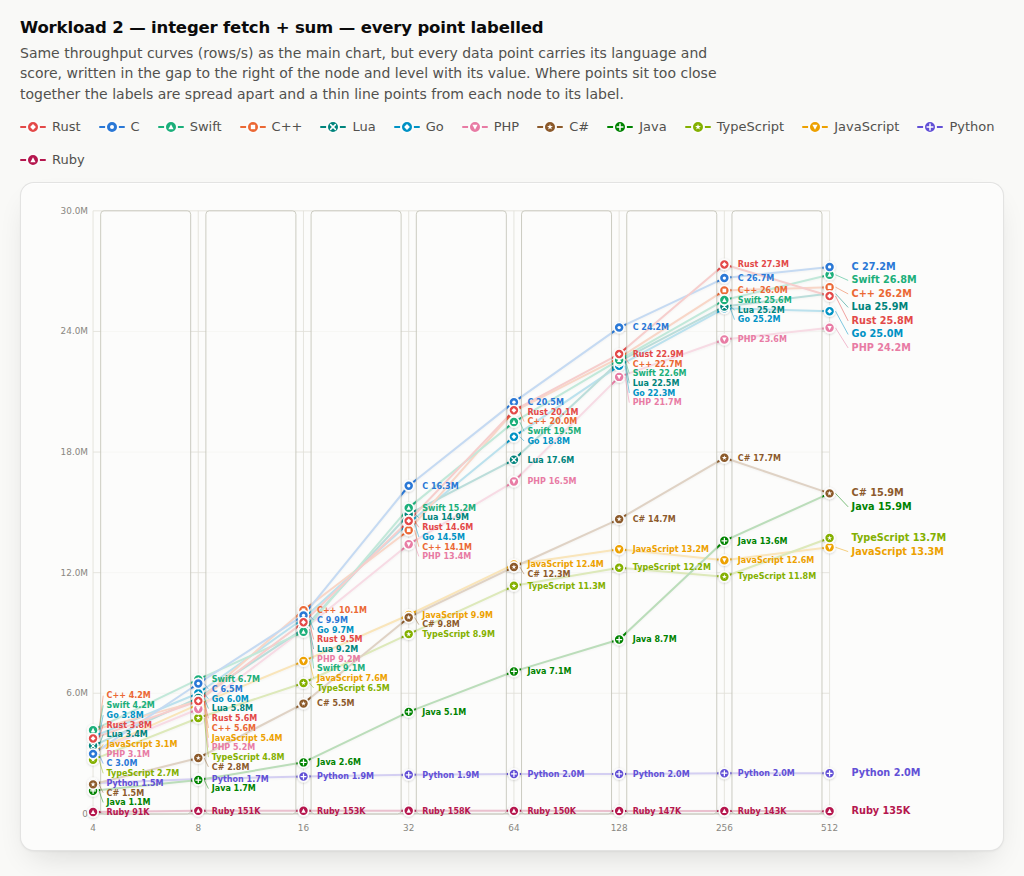
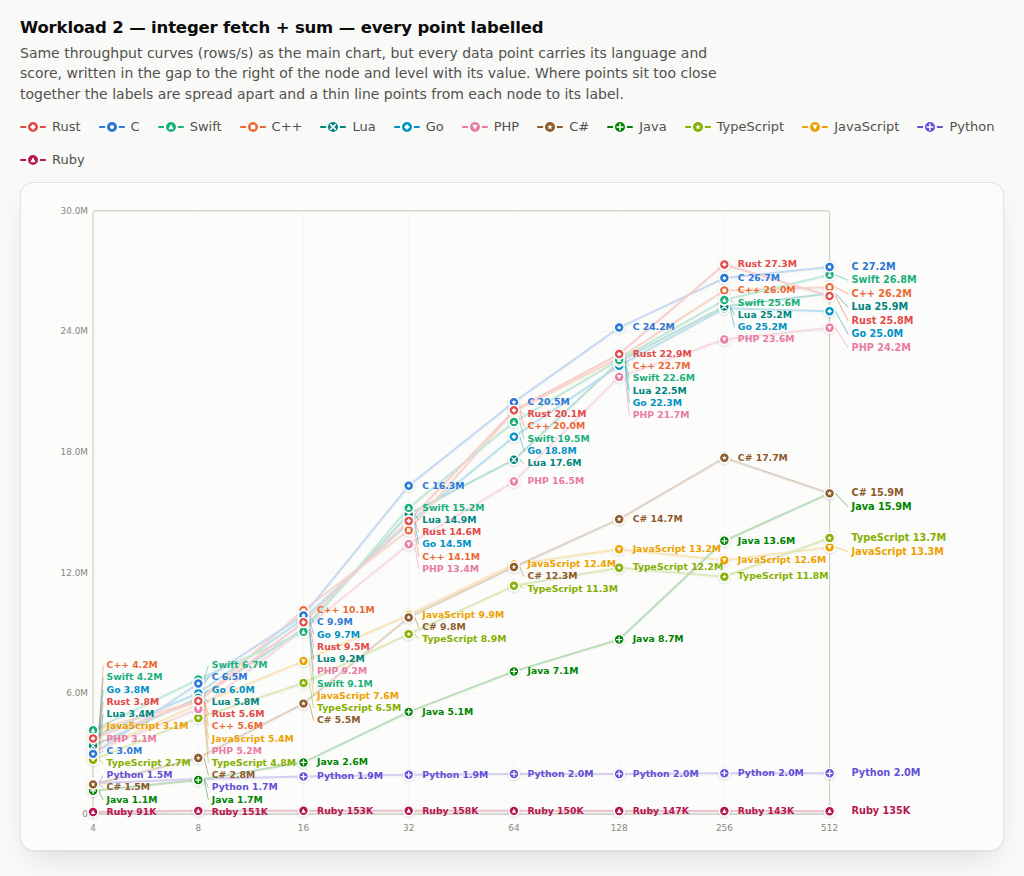
report: single translucent panel and larger annotations on annotated charts
Replace the per-gap panels with one bordered, 74%-opaque panel over the whole
plot area: lines are dimmed beneath it while markers, leaders and labels draw on
top. Annotation font raised from 9.5px to 11px and the vertical spacing between
stacked annotations from 11.5px to 14.5px.

diff --git a/report/annotated.html b/report/annotated.html
@@ -61,7 +61,7 @@
   svg .grouplabel { fill: var(--text-secondary); font-weight: 700; font-size: 11.5px; }
   svg .barval { fill: var(--muted); font-size: 9.5px; }
   svg .barvalin { fill: #ffffff; font-size: 9.5px; font-weight: 600; }
-  svg .nodelabel { font-size: 9.5px; font-weight: 650; }
+  svg .nodelabel { font-size: 11px; font-weight: 650; }
   #tooltip { position: fixed; pointer-events: none; z-index: 10; display: none;
     background: var(--surface-1); border: 1px solid var(--border); border-radius: 8px;
     box-shadow: 0 4px 14px rgba(0,0,0,0.18); padding: 8px 11px; font-size: 12.5px; min-width: 150px; }
@@ -295,12 +295,11 @@ const PAGE_BARS = false;
     }
     svg.appendChild(lines);
     if (cfg.nodeLabels) {
-      const PAD = 9;   // leave a clear window around each node column
-      for (let i = 0; i < N-1; i++) {
-        svg.appendChild(el("rect", { x: X(i)+PAD, y: BM.t, width: X(i+1)-X(i)-2*PAD, height: BIH, rx: 4, ry: 4,
-                                     fill: "var(--surface-1)", "fill-opacity": "0.74",
-                                     stroke: "var(--baseline)", "stroke-width": 1 }));
-      }
+      // One translucent panel over the whole plot: lines beneath it are dimmed,
+      // markers and labels are drawn on top of it.
+      svg.appendChild(el("rect", { x: BM.l, y: BM.t, width: BIW, height: BIH, rx: 4, ry: 4,
+                                   fill: "var(--surface-1)", "fill-opacity": "0.74",
+                                   stroke: "var(--baseline)", "stroke-width": 1 }));
     }
     svg.appendChild(marks);
     // Per-node annotations: in the horizontal gap to the right of each worker
@@ -309,7 +308,7 @@ const PAGE_BARS = false;
     // label that had to move away from its node gets a thin leader line from
     // the node to the label. The last node keeps the end-label treatment below.
     if (cfg.nodeLabels) {
-      const GAPN = 11.5;
+      const GAPN = 14.5;   // vertical spacing between stacked annotations
       for (let i = 0; i < N-1; i++) {
         const items = cfg.seriesDefs.filter(d => d.vals[i] != null)
           .map(d => ({ d, y0: Y(d.vals[i]), y: Y(d.vals[i]) }));

diff --git a/report/report.html b/report/report.html
@@ -61,7 +61,7 @@
   svg .grouplabel { fill: var(--text-secondary); font-weight: 700; font-size: 11.5px; }
   svg .barval { fill: var(--muted); font-size: 9.5px; }
   svg .barvalin { fill: #ffffff; font-size: 9.5px; font-weight: 600; }
-  svg .nodelabel { font-size: 9.5px; font-weight: 650; }
+  svg .nodelabel { font-size: 11px; font-weight: 650; }
   #tooltip { position: fixed; pointer-events: none; z-index: 10; display: none;
     background: var(--surface-1); border: 1px solid var(--border); border-radius: 8px;
     box-shadow: 0 4px 14px rgba(0,0,0,0.18); padding: 8px 11px; font-size: 12.5px; min-width: 150px; }
@@ -375,12 +375,11 @@ const PAGE_BARS = false;
     }
     svg.appendChild(lines);
     if (cfg.nodeLabels) {
-      const PAD = 9;   // leave a clear window around each node column
-      for (let i = 0; i < N-1; i++) {
-        svg.appendChild(el("rect", { x: X(i)+PAD, y: BM.t, width: X(i+1)-X(i)-2*PAD, height: BIH, rx: 4, ry: 4,
-                                     fill: "var(--surface-1)", "fill-opacity": "0.74",
-                                     stroke: "var(--baseline)", "stroke-width": 1 }));
-      }
+      // One translucent panel over the whole plot: lines beneath it are dimmed,
+      // markers and labels are drawn on top of it.
+      svg.appendChild(el("rect", { x: BM.l, y: BM.t, width: BIW, height: BIH, rx: 4, ry: 4,
+                                   fill: "var(--surface-1)", "fill-opacity": "0.74",
+                                   stroke: "var(--baseline)", "stroke-width": 1 }));
     }
     svg.appendChild(marks);
     // Per-node annotations: in the horizontal gap to the right of each worker
@@ -389,7 +388,7 @@ const PAGE_BARS = false;
     // label that had to move away from its node gets a thin leader line from
     // the node to the label. The last node keeps the end-label treatment below.
     if (cfg.nodeLabels) {
-      const GAPN = 11.5;
+      const GAPN = 14.5;   // vertical spacing between stacked annotations
       for (let i = 0; i < N-1; i++) {
         const items = cfg.seriesDefs.filter(d => d.vals[i] != null)
           .map(d => ({ d, y0: Y(d.vals[i]), y: Y(d.vals[i]) }));

diff --git a/report/bars.html b/report/bars.html
@@ -61,7 +61,7 @@
   svg .grouplabel { fill: var(--text-secondary); font-weight: 700; font-size: 11.5px; }
   svg .barval { fill: var(--muted); font-size: 9.5px; }
   svg .barvalin { fill: #ffffff; font-size: 9.5px; font-weight: 600; }
-  svg .nodelabel { font-size: 9.5px; font-weight: 650; }
+  svg .nodelabel { font-size: 11px; font-weight: 650; }
   #tooltip { position: fixed; pointer-events: none; z-index: 10; display: none;
     background: var(--surface-1); border: 1px solid var(--border); border-radius: 8px;
     box-shadow: 0 4px 14px rgba(0,0,0,0.18); padding: 8px 11px; font-size: 12.5px; min-width: 150px; }
@@ -295,12 +295,11 @@ const PAGE_BARS = true;
     }
     svg.appendChild(lines);
     if (cfg.nodeLabels) {
-      const PAD = 9;   // leave a clear window around each node column
-      for (let i = 0; i < N-1; i++) {
-        svg.appendChild(el("rect", { x: X(i)+PAD, y: BM.t, width: X(i+1)-X(i)-2*PAD, height: BIH, rx: 4, ry: 4,
-                                     fill: "var(--surface-1)", "fill-opacity": "0.74",
-                                     stroke: "var(--baseline)", "stroke-width": 1 }));
-      }
+      // One translucent panel over the whole plot: lines beneath it are dimmed,
+      // markers and labels are drawn on top of it.
+      svg.appendChild(el("rect", { x: BM.l, y: BM.t, width: BIW, height: BIH, rx: 4, ry: 4,
+                                   fill: "var(--surface-1)", "fill-opacity": "0.74",
+                                   stroke: "var(--baseline)", "stroke-width": 1 }));
     }
     svg.appendChild(marks);
     // Per-node annotations: in the horizontal gap to the right of each worker
@@ -309,7 +308,7 @@ const PAGE_BARS = true;
     // label that had to move away from its node gets a thin leader line from
     // the node to the label. The last node keeps the end-label treatment below.
     if (cfg.nodeLabels) {
-      const GAPN = 11.5;
+      const GAPN = 14.5;   // vertical spacing between stacked annotations
       for (let i = 0; i < N-1; i++) {
         const items = cfg.seriesDefs.filter(d => d.vals[i] != null)
           .map(d => ({ d, y0: Y(d.vals[i]), y: Y(d.vals[i]) }));

diff --git a/report/generate_html_report.py b/report/generate_html_report.py
@@ -507,7 +507,7 @@ HTML_TEMPLATE = r"""<!DOCTYPE html>
   svg .grouplabel { fill: var(--text-secondary); font-weight: 700; font-size: 11.5px; }
   svg .barval { fill: var(--muted); font-size: 9.5px; }
   svg .barvalin { fill: #ffffff; font-size: 9.5px; font-weight: 600; }
-  svg .nodelabel { font-size: 9.5px; font-weight: 650; }
+  svg .nodelabel { font-size: 11px; font-weight: 650; }
   #tooltip { position: fixed; pointer-events: none; z-index: 10; display: none;
     background: var(--surface-1); border: 1px solid var(--border); border-radius: 8px;
     box-shadow: 0 4px 14px rgba(0,0,0,0.18); padding: 8px 11px; font-size: 12.5px; min-width: 150px; }
@@ -717,12 +717,11 @@ const PAGE_BARS = __PAGE_BARS__;
     }
     svg.appendChild(lines);
     if (cfg.nodeLabels) {
-      const PAD = 9;   // leave a clear window around each node column
-      for (let i = 0; i < N-1; i++) {
-        svg.appendChild(el("rect", { x: X(i)+PAD, y: BM.t, width: X(i+1)-X(i)-2*PAD, height: BIH, rx: 4, ry: 4,
-                                     fill: "var(--surface-1)", "fill-opacity": "0.74",
-                                     stroke: "var(--baseline)", "stroke-width": 1 }));
-      }
+      // One translucent panel over the whole plot: lines beneath it are dimmed,
+      // markers and labels are drawn on top of it.
+      svg.appendChild(el("rect", { x: BM.l, y: BM.t, width: BIW, height: BIH, rx: 4, ry: 4,
+                                   fill: "var(--surface-1)", "fill-opacity": "0.74",
+                                   stroke: "var(--baseline)", "stroke-width": 1 }));
     }
     svg.appendChild(marks);
     // Per-node annotations: in the horizontal gap to the right of each worker
@@ -731,7 +730,7 @@ const PAGE_BARS = __PAGE_BARS__;
     // label that had to move away from its node gets a thin leader line from
     // the node to the label. The last node keeps the end-label treatment below.
     if (cfg.nodeLabels) {
-      const GAPN = 11.5;
+      const GAPN = 14.5;   // vertical spacing between stacked annotations
       for (let i = 0; i < N-1; i++) {
         const items = cfg.seriesDefs.filter(d => d.vals[i] != null)
           .map(d => ({ d, y0: Y(d.vals[i]), y: Y(d.vals[i]) }));
